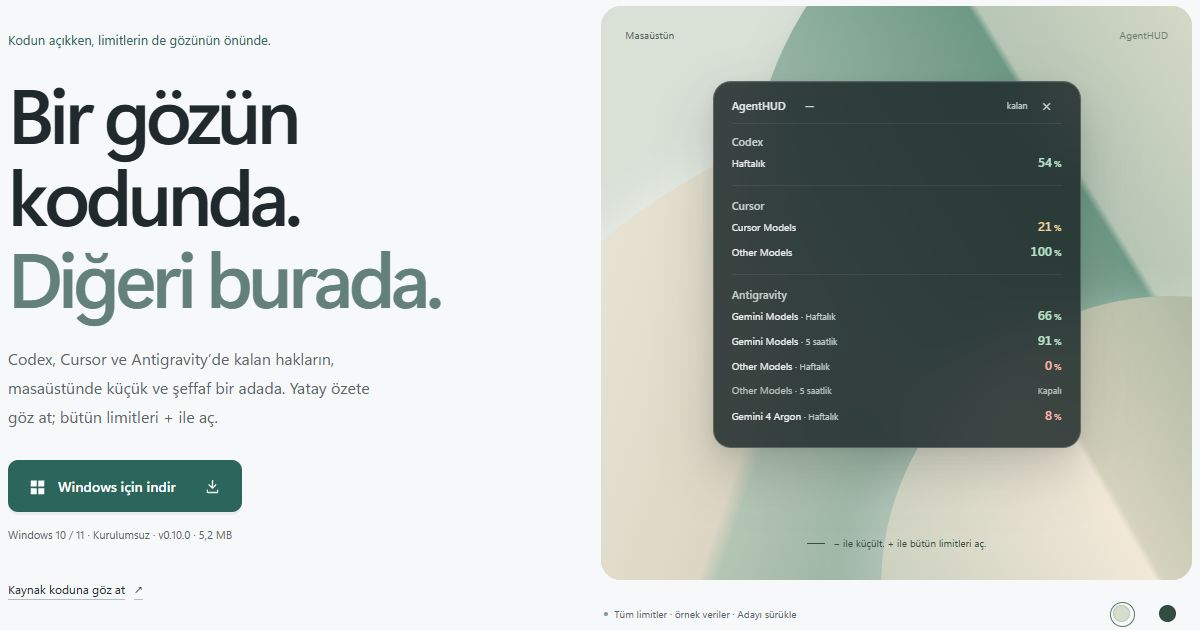
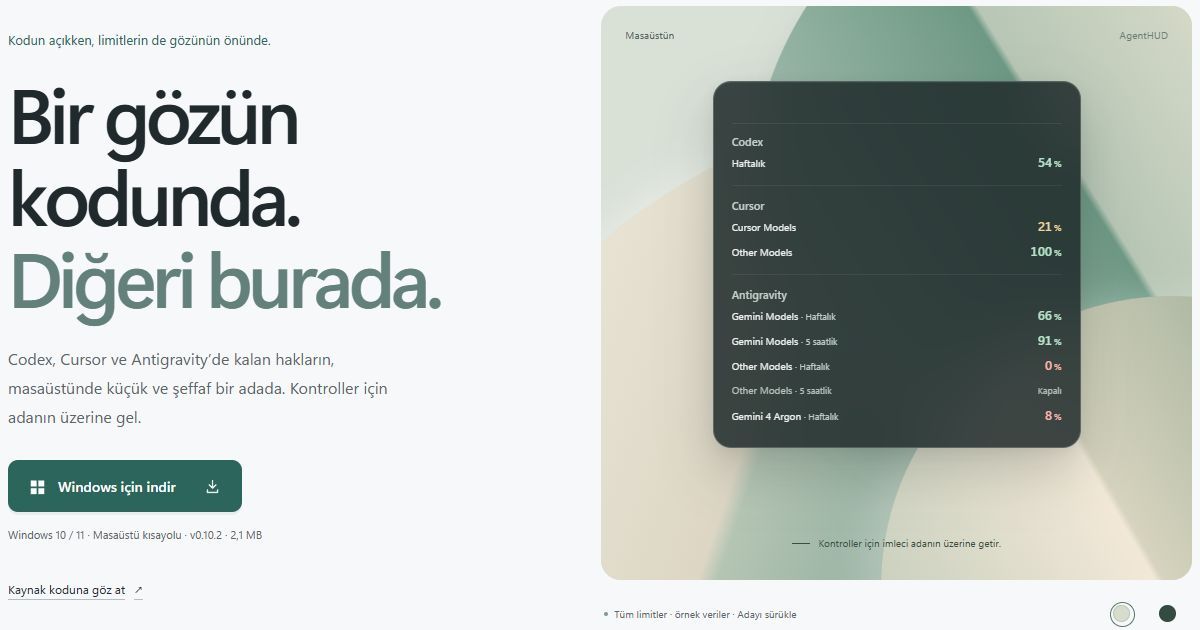
feat: reveal island controls on hover

diff --git a/site/index.html b/site/index.html
@@ -13,7 +13,7 @@
     <meta property="og:title" content="AgentHUD | Limitlerin, gözünün önünde." />
     <meta property="og:description" content="Codex, Cursor ve Antigravity için masaüstünde küçük bir kota adası. Windows için indir." />
     <meta property="og:url" content="https://agenthud.serhatkochan.com/" />
-    <meta property="og:image" content="https://agenthud.serhatkochan.com/assets/social.jpg?v=0.10.0" />
+    <meta property="og:image" content="https://agenthud.serhatkochan.com/assets/social.jpg?v=0.10.2" />
     <meta property="og:image:width" content="1200" />
     <meta property="og:image:height" content="630" />
     <meta property="og:image:alt" content="AgentHUD şeffaf kota adasının örnek verilerle hazırlanmış önizlemesi" />
@@ -38,9 +38,9 @@
         <div class="hero-copy">
           <p class="intro">Kodun açıkken, limitlerin de gözünün önünde.</p>
           <h1 id="hero-title">Bir gözün<br />kodunda.<br /><span>Diğeri burada.</span></h1>
-          <p class="hero-description">Codex, Cursor ve Antigravity’de kalan hakların, masaüstünde küçük ve şeffaf bir adada. Yatay özete göz at; bütün limitleri + ile aç.</p>
+          <p class="hero-description">Codex, Cursor ve Antigravity’de kalan hakların, masaüstünde küçük ve şeffaf bir adada. Kontroller için adanın üzerine gel.</p>
           <a class="button button-primary" href="https://github.com/serhatkochan/agenthud/releases/latest/download/AgentHUD-Setup.exe"><svg class="windows-icon" aria-hidden="true" viewBox="0 0 20 20"><path d="M2 3h7v7H2zm9 0h7v7h-7zM2 12h7v7H2zm9 0h7v7h-7z" /></svg>Windows için indir<svg class="download-icon" aria-hidden="true" viewBox="0 0 20 20"><path d="M10 3v9m-4-4 4 4 4-4M4 14v3h12v-3" /></svg></a>
-          <p class="download-note">Windows 10 / 11 · Masaüstü kısayolu · v0.10.1 · 2,1 MB</p>
+          <p class="download-note">Windows 10 / 11 · Masaüstü kısayolu · v0.10.2 · 2,1 MB</p>
           <a class="text-link" href="https://github.com/serhatkochan/agenthud">Kaynak koduna göz at <span aria-hidden="true">↗</span></a>
         </div>
 
@@ -52,9 +52,8 @@
             <div class="wallpaper-fold fold-three" aria-hidden="true"></div>
             <div class="island" id="island" data-view="expanded" role="group" aria-label="AgentHUD, örnek kota görünümü">
               <div class="island-top">
-                <button class="drag-handle" id="drag-handle" type="button" aria-label="AgentHUD önizlemesini taşı. Sürükle veya ok tuşlarını kullan.">AgentHUD</button>
+                <button class="drag-handle" id="drag-handle" type="button" aria-label="Önizlemeyi taşı. Sürükle veya ok tuşlarını kullan."></button>
                 <button class="island-control" id="view-toggle" type="button" aria-label="Yatay özete küçült" aria-expanded="true" aria-controls="quota-details quota-summary">−</button>
-                <span class="island-column">kalan</span>
                 <button class="island-control island-close" id="preview-close" type="button" aria-label="Önizlemeyi kapat">×</button>
               </div>
               <div id="quota-details">
@@ -79,7 +78,7 @@
                 <div class="summary-item"><dt>Other Models</dt><dd class="danger">0<span>%</span><small>5 saatlik</small></dd></div>
               </dl>
             </div>
-            <div class="desktop-hint"><span class="hint-line" aria-hidden="true"></span><span id="preview-hint">− ile küçült. + ile bütün limitleri aç.</span><button id="preview-reopen" type="button" hidden>Önizlemeyi aç</button></div>
+            <div class="desktop-hint"><span class="hint-line" aria-hidden="true"></span><span id="preview-hint">Kontroller için imleci adanın üzerine getir.</span><button id="preview-reopen" type="button" hidden>Önizlemeyi aç</button></div>
           </div>
           <figcaption id="preview-caption">
             <div class="preview-caption-copy"><span class="preview-dot" aria-hidden="true"></span><span><span id="preview-status" aria-live="polite">Tüm limitler · örnek veriler</span><span class="drag-tip"> · Adayı sürükle</span></span></div>
@@ -118,7 +117,7 @@
         <div class="section-copy"><p class="section-label">İndirmeden önce.</p><h2 id="questions-title">Birkaç küçük detay.</h2></div>
         <div class="question-list">
           <details><summary>Küçük görünümde hangi limit gösterilir?<span class="expand-mark" aria-hidden="true"></span></summary><div class="answer"><p>Codex’te varsa 5 saatlik, yoksa haftalık limit seçilir. Cursor’da Cursor Models görünür. Antigravity’de Gemini, Argon ve Other Models için varsa 5 saatlik, yoksa haftalık pencere kullanılır.</p><p>Bir grubun haftalık hakkı tükenmişse, kısa pencerede hak görünse bile yatay özette o grup %0 olur. Eksik bir ölçüm %0’a çevrilmez; devre dışı pencere “kapalı” gösterilir.</p></div></details>
-          <details><summary>Gerçekte ne kadar bellek kullanıyor?<span class="expand-mark" aria-hidden="true"></span></summary><div class="answer"><p>23 Ekim 2026’da bu Windows cihazında alınan son ölçümde çalışma kümesi <strong>27,4 MB</strong>, özel bellek yaklaşık <strong>5 MB</strong>. Kurulum EXE’si 2,1 MB, uygulamanın kendi EXE’si 5,2 MB. Kullanım, Windows’a ve çalışma durumuna göre değişir.</p><p>Arayüz Rust ve Windows API ile çizilir. Electron, WebView veya Node süreci çalıştırılmaz.</p></div></details>
+          <details><summary>Gerçekte ne kadar bellek kullanıyor?<span class="expand-mark" aria-hidden="true"></span></summary><div class="answer"><p>29 Ekim 2026’da bu Windows cihazında alınan ölçümlerde çalışma kümesi yaklaşık <strong>19–21 MB</strong>, özel bellek <strong>4–5 MB</strong>. Kurulum EXE’si 2,1 MB, uygulamanın kendi EXE’si 5,2 MB. Kullanım, Windows’a ve çalışma durumuna göre değişir.</p><p>Arayüz Rust ve Windows API ile çizilir. Electron, WebView veya Node süreci çalıştırılmaz.</p></div></details>
           <details><summary>API anahtarı girmem gerekiyor mu?<span class="expand-mark" aria-hidden="true"></span></summary><div class="answer"><p>Hayır. AgentHUD mevcut uygulama oturumlarını okur. Codex plan limitleri için Codex’e ChatGPT hesabınla giriş yapmış olmalısın; yalnızca API anahtarıyla giriş yeterli değildir.</p></div></details>
           <details><summary>Bir aracın limiti görünmüyorsa?<span class="expand-mark" aria-hidden="true"></span></summary><div class="answer"><p>İlgili uygulamada oturumunu kontrol et. Antigravity’nin açık olması gerekir. Her hesap aynı limitleri sunmaz; sağlayıcının döndürmediği bir pencere için yüzde üretilmez. AgentHUD dakikada bir yeniden sorgular.</p></div></details>
           <details><summary>Claude hesabımı da görebilir miyim?<span class="expand-mark" aria-hidden="true"></span></summary><div class="answer"><p>Bu sürümde ayrı bir Claude hesabı bağlantısı bulunmuyor. Antigravity’nin Other Models satırı, Antigravity içindeki Claude/GPT kullanım havuzunu gösterir. Claude hesabındaki kullanım hakkı ayrı bir limittir.</p></div></details>
@@ -126,7 +125,7 @@
         </div>
       </section>
 
-      <section class="closing shell" aria-label="Windows için indir"><div><p class="section-label">Masaüstüne küçük bir ek.</p><h2>Bir bakışta,<br /><span>ne kadar kaldığını bil.</span></h2></div><div class="closing-action"><a class="button button-primary" href="https://github.com/serhatkochan/agenthud/releases/latest/download/AgentHUD-Setup.exe"><svg class="windows-icon" aria-hidden="true" viewBox="0 0 20 20"><path d="M2 3h7v7H2zm9 0h7v7h-7zM2 12h7v7H2zm9 0h7v7h-7z" /></svg>Windows için indir</a><p class="download-note">v0.10.1 · Windows 10 / 11 · Kurulum EXE’si · 2,1 MB</p></div></section>
+      <section class="closing shell" aria-label="Windows için indir"><div><p class="section-label">Masaüstüne küçük bir ek.</p><h2>Bir bakışta,<br /><span>ne kadar kaldığını bil.</span></h2></div><div class="closing-action"><a class="button button-primary" href="https://github.com/serhatkochan/agenthud/releases/latest/download/AgentHUD-Setup.exe"><svg class="windows-icon" aria-hidden="true" viewBox="0 0 20 20"><path d="M2 3h7v7H2zm9 0h7v7h-7zM2 12h7v7H2zm9 0h7v7h-7z" /></svg>Windows için indir</a><p class="download-note">v0.10.2 · Windows 10 / 11 · Kurulum EXE’si · 2,1 MB</p></div></section>
     </main>
 
     <footer class="footer shell"><a class="brand" href="#">AgentHUD</a><p><a href="https://serhatkochan.com">Serhat Kochan</a> tarafından geliştirildi.</p><div><a href="https://github.com/serhatkochan/agenthud#readme">Dokümantasyon</a><a href="https://github.com/serhatkochan/agenthud/releases">Sürümler <span aria-hidden="true">↗</span></a></div></footer>

diff --git a/site/styles.css b/site/styles.css
@@ -63,14 +63,16 @@ h1 span { color: #63817a; }
 .desktop[data-wallpaper="dark"] .fold-three { background: linear-gradient(105deg, #526752, #a1a086 48%, #737c65 49%, #2d4840); }
 .island { position: absolute; z-index: 2; top: 85px; left: 50%; width: min(368px, calc(100% - 44px)); transform: translateX(-50%); padding: 8px 18px 16px; border: 1px solid #ffffff30; border-radius: 18px; background: #1d2929d9; backdrop-filter: blur(26px); -webkit-backdrop-filter: blur(26px); color: #ecf0ef; box-shadow: 0 24px 52px #24352d38, 0 4px 12px #24352d15, inset 0 1px 0 #ffffff0a; }
 .island-top { display: flex; align-items: center; gap: 4px; border-bottom: 1px solid #ffffff13; margin: -3px 0 3px; }
-.drag-handle { display: inline-flex; align-items: center; flex: 0 0 auto; min-height: 36px; padding: 0 5px 0 0; border: none; background: none; color: #e0e8e4; text-align: left; font-size: 11px; font-weight: 600; cursor: grab; touch-action: none; user-select: none; }
+.drag-handle { display: inline-flex; align-items: center; flex: 0 0 12px; min-height: 36px; padding: 0; border: none; background: none; cursor: grab; touch-action: none; user-select: none; }
 .drag-handle:active { cursor: grabbing; }
 .drag-handle:focus-visible { outline-color: #a9d5be; outline-offset: 1px; border-radius: 3px; }
-.island-control { flex: 0 0 30px; width: 30px; height: 36px; border: 0; padding: 0; border-radius: 5px; background: none; color: #c5d1cb; font-size: 18px; line-height: 1; }
+.island-control { flex: 0 0 30px; width: 30px; height: 36px; border: 0; padding: 0; border-radius: 5px; background: none; color: #c5d1cb; font-size: 18px; line-height: 1; opacity: 0; pointer-events: none; }
+.island:hover .island-control, .island:has(:focus-visible) .island-control { opacity: 1; pointer-events: auto; }
+@media (hover: none) { .island-control { opacity: 1; pointer-events: auto; } }
 .island-control:hover { background: #ffffff14; color: #fff; }
 .island-control:focus-visible { outline-color: #a9d5be; outline-offset: 1px; }
 .island-column { margin-left: auto; font-size: 9px; color: #c0cdc7; }
-.island-close { font-size: 17px; }
+.island-close { font-size: 17px; margin-left: auto; }
 .quota-group { margin: 0; }
 .quota-group + .quota-group { border-top: 1px solid #ffffff10; margin-top: 7px; padding-top: 2px; }
 .quota-group h3 { font-size: 11px; font-weight: 600; margin: 10px 0 4px; color: #c3d0ca; }
@@ -93,7 +95,7 @@ h1 span { color: #63817a; }
 .summary-item small { margin-left: 4px; color: #c0cdc7; font-size: 7px; font-weight: 400; }
 .summary-item dd.warning { color: #f4d29b; }
 .summary-item dd.danger { color: #ffb4a9; }
-.island[data-view="compact"] { display: flex; align-items: center; gap: 3px; width: min(692px, calc(100% - 24px)); padding: 7px 9px; border-radius: 15px; }
+.island[data-view="compact"] { display: flex; align-items: center; gap: 3px; width: min(590px, calc(100% - 24px)); padding: 7px 9px; border-radius: 15px; }
 .island[data-view="compact"] .island-top { display: contents; }
 .island[data-view="compact"] .drag-handle { font-size: 10px; }
 .island[data-view="compact"] .island-control { flex-basis: 24px; width: 24px; }

diff --git a/site/site.js b/site/site.js
@@ -38,7 +38,7 @@ function moveIsland(x, y) {
 function updateHint() {
   previewHint.textContent = island.dataset.view === 'compact' && summary.scrollWidth > summary.clientWidth
     ? 'Özeti yana kaydır; + ile bütün limitleri aç.'
-    : '− ile küçült. + ile bütün limitleri aç.';
+    : 'Kontroller için imleci adanın üzerine getir.';
 }
 
 function setExpanded(expanded) {

diff --git a/src-tauri/src/bar.rs b/src-tauri/src/bar.rs
@@ -10,7 +10,7 @@ use serde_json::{json, Value};
 use std::{
     ffi::c_void,
     sync::{
-        atomic::{AtomicIsize, Ordering},
+        atomic::{AtomicBool, AtomicIsize, Ordering},
         Mutex, OnceLock,
     },
     time::Duration,
@@ -29,11 +29,12 @@ use windows_sys::Win32::{
         },
         WindowsAndMessaging::{
             CreateWindowExW, DefWindowProcW, DestroyWindow, DispatchMessageW, FindWindowW,
-            GetClientRect, GetMessageW, GetWindowRect, LoadCursorW, LoadIconW, PostMessageW,
-            PostQuitMessage, RegisterClassW, SetForegroundWindow, SetWindowPos, ShowWindow,
-            SystemParametersInfoW, TranslateMessage, CS_HREDRAW, CS_VREDRAW, HTCAPTION, HTCLIENT,
-            HWND_TOPMOST, IDC_ARROW, SPI_GETWORKAREA, SWP_NOACTIVATE, SW_SHOW, WM_DESTROY,
-            WM_DPICHANGED, WM_ERASEBKGND, WM_KEYDOWN, WM_LBUTTONUP, WM_NCHITTEST, WM_PAINT,
+            GetClientRect, GetCursorPos, GetMessageW, GetWindowRect, KillTimer, LoadCursorW,
+            LoadIconW, PostMessageW, PostQuitMessage, RegisterClassW, SetForegroundWindow,
+            SetTimer, SetWindowPos, ShowWindow, SystemParametersInfoW, TranslateMessage,
+            CS_HREDRAW, CS_VREDRAW, HTCAPTION, HTCLIENT, HWND_TOPMOST, IDC_ARROW, SPI_GETWORKAREA,
+            SWP_NOACTIVATE, SW_SHOW, WM_DESTROY, WM_DPICHANGED, WM_ERASEBKGND, WM_KEYDOWN,
+            WM_LBUTTONUP, WM_MOUSEMOVE, WM_NCHITTEST, WM_NCMOUSEMOVE, WM_PAINT, WM_TIMER,
             WNDCLASSW, WS_EX_LAYERED, WS_EX_TOOLWINDOW, WS_EX_TOPMOST, WS_POPUP, WS_VISIBLE,
         },
     },
@@ -44,11 +45,11 @@ const WINDOW_EX_STYLE: u32 = WS_EX_LAYERED | WS_EX_TOPMOST | WS_EX_TOOLWINDOW;
 const NAMES: [&str; 3] = ["Codex", "Cursor", "Antigravity"];
 const IDS: [&str; 3] = ["codex", "cursor", "antigravity"];
 const PANEL_WIDTH: i32 = 368;
-const HEADER_HEIGHT: i32 = 42;
+const HEADER_HEIGHT: i32 = 32;
 const ROW_HEIGHT: i32 = 23;
 const GROUP_HEIGHT: i32 = 28;
 const COMPACT_HEIGHT: i32 = 50;
-const COMPACT_BRAND: i32 = 138;
+const COMPACT_BRAND: i32 = 36;
 const COMPACT_CELL: i32 = 104;
 const CLOSE_SPACE: i32 = 34;
 
@@ -100,6 +101,8 @@ impl Frame {
 
 static STATE: OnceLock<Mutex<Bar>> = OnceLock::new();
 static WINDOW: AtomicIsize = AtomicIsize::new(0);
+static HOVERED: AtomicBool = AtomicBool::new(false);
+const HOVER_TIMER: usize = 42;
 
 pub fn run() {
     let _ = unsafe { SetProcessDpiAwarenessContext(DPI_AWARENESS_CONTEXT_PER_MONITOR_AWARE_V2) };
@@ -385,6 +388,29 @@ unsafe extern "system" fn wndproc(
             0
         }
         WM_ERASEBKGND => 1,
+        WM_MOUSEMOVE | WM_NCMOUSEMOVE => {
+            if !HOVERED.swap(true, Ordering::Relaxed) {
+                SetTimer(hwnd, HOVER_TIMER, 120, None);
+                InvalidateRect(hwnd, std::ptr::null(), 0);
+            }
+            0
+        }
+        WM_TIMER if wparam == HOVER_TIMER => {
+            let mut point: POINT = std::mem::zeroed();
+            let mut rect: RECT = std::mem::zeroed();
+            if GetCursorPos(&mut point) == 0
+                || GetWindowRect(hwnd, &mut rect) == 0
+                || point.x < rect.left
+                || point.x >= rect.right
+                || point.y < rect.top
+                || point.y >= rect.bottom
+            {
+                KillTimer(hwnd, HOVER_TIMER);
+                HOVERED.store(false, Ordering::Relaxed);
+                InvalidateRect(hwnd, std::ptr::null(), 0);
+            }
+            0
+        }
         WM_NCHITTEST => hit(hwnd, lparam),
         WM_LBUTTONUP => {
             if in_close(hwnd, lparam) {
@@ -419,6 +445,8 @@ unsafe extern "system" fn wndproc(
             0
         }
         WM_DESTROY => {
+            KillTimer(hwnd, HOVER_TIMER);
+            HOVERED.store(false, Ordering::Relaxed);
             WINDOW.store(0, Ordering::Relaxed);
             PostQuitMessage(0);
             0
@@ -494,9 +522,9 @@ fn toggle_rect(hwnd: HWND) -> BoxRect {
     };
     let top = (header - dip(32, dpi)) / 2;
     BoxRect {
-        left: dip(93, dpi),
+        left: dip(4, dpi),
         top,
-        right: dip(128, dpi),
+        right: dip(35, dpi),
         bottom: top + dip(32, dpi),
     }
 }
@@ -526,8 +554,8 @@ mod tests {
                 class.as_ptr(),
                 class.as_ptr(),
                 WS_POPUP,
-                0,
-                0,
+                -20000,
+                -20000,
                 692,
                 50,
                 std::ptr::null_mut(),
@@ -537,6 +565,11 @@ mod tests {
             );
             assert!(!hwnd.is_null());
             let style = GetWindowLongW(hwnd, GWL_EXSTYLE) as u32;
+            HOVERED.store(false, Ordering::Relaxed);
+            wndproc(hwnd, WM_MOUSEMOVE, 0, 0);
+            assert!(HOVERED.load(Ordering::Relaxed));
+            wndproc(hwnd, WM_TIMER, HOVER_TIMER, 0);
+            assert!(!HOVERED.load(Ordering::Relaxed));
             let close = close_rect(hwnd);
             let x = (close.left + close.right) / 2;
             let y = (close.top + close.bottom) / 2;

diff --git a/src-tauri/src/bar/paint.rs b/src-tauri/src/bar/paint.rs
@@ -1,9 +1,10 @@
 use super::{
     close_rect, current_frame, dip, percent_text, toggle_rect, wide, Frame, Line, CLOSE_SPACE,
-    COMPACT_BRAND, COMPACT_HEIGHT, GROUP_HEIGHT, HEADER_HEIGHT, ROW_HEIGHT,
+    COMPACT_BRAND, COMPACT_HEIGHT, GROUP_HEIGHT, HEADER_HEIGHT, HOVERED, ROW_HEIGHT,
 };
 use crate::quota_view::CompactQuota;
 use std::ffi::c_void;
+use std::sync::atomic::Ordering;
 use windows_sys::Win32::{
     Foundation::{COLORREF, HWND, POINT, RECT, SIZE},
     Graphics::Gdi::{
@@ -186,43 +187,33 @@ unsafe fn paint_header(
         dpi,
     );
     SelectObject(dc, header_font as _);
-    SetTextColor(dc, rgb(0xE0, 0xEA, 0xE4));
-    paint_text(
-        dc,
-        "AgentHUD",
-        RECT {
-            left: dip(15, dpi),
-            top: 0,
-            right: dip(92, dpi),
-            bottom: height,
-        },
-        DT_LEFT | DT_VCENTER | DT_SINGLELINE,
-    );
-    let toggle = toggle_rect(hwnd);
-    SetTextColor(dc, rgb(0xBA, 0xCC, 0xC1));
-    paint_text(
-        dc,
-        if frame.collapsed { "+" } else { "−" },
-        RECT {
-            left: toggle.left,
-            top: toggle.top,
-            right: toggle.right,
-            bottom: toggle.bottom,
-        },
-        DT_CENTER | DT_VCENTER | DT_SINGLELINE,
-    );
-    let close = close_rect(hwnd);
-    paint_text(
-        dc,
-        "×",
-        RECT {
-            left: close.left,
-            top: close.top,
-            right: close.right,
-            bottom: close.bottom,
-        },
-        DT_CENTER | DT_VCENTER | DT_SINGLELINE,
-    );
+    if HOVERED.load(Ordering::Relaxed) {
+        let toggle = toggle_rect(hwnd);
+        SetTextColor(dc, rgb(0xBA, 0xCC, 0xC1));
+        paint_text(
+            dc,
+            if frame.collapsed { "+" } else { "−" },
+            RECT {
+                left: toggle.left,
+                top: toggle.top,
+                right: toggle.right,
+                bottom: toggle.bottom,
+            },
+            DT_CENTER | DT_VCENTER | DT_SINGLELINE,
+        );
+        let close = close_rect(hwnd);
+        paint_text(
+            dc,
+            "×",
+            RECT {
+                left: close.left,
+                top: close.top,
+                right: close.right,
+                bottom: close.bottom,
+            },
+            DT_CENTER | DT_VCENTER | DT_SINGLELINE,
+        );
+    }
     if !frame.collapsed {
         rule(
             dc,

diff --git a/README.md b/README.md
@@ -8,9 +8,9 @@
   <a href="https://github.com/serhatkochan/agenthud/releases">Sürümler</a>
 </p>
 
-![AgentHUD başlığı, küçültme düğmesi ve ayrı kota satırlarıyla güncel web önizlemesi](site/assets/preview.jpg)
+![Ayrı kota satırlarıyla güncel ada önizlemesi](site/assets/preview.jpg)
 
-AgentHUD, AI araçlarında **ne kadar hakkın kaldığını** aynı yerde gösteren kompakt bir Windows uygulamasıdır. Şeffaf ada diğer pencerelerin üzerinde durur. Yatay özetle açılır; başlıktaki **+** bütün limitleri gösterir, **−** yeniden küçültür. İstediğin yere sürükle; koduna devam et.
+AgentHUD, AI araçlarında **ne kadar hakkın kaldığını** aynı yerde gösteren kompakt bir Windows uygulamasıdır. Şeffaf ada diğer pencerelerin üzerinde durur. Yatay özetle açılır; üzerine gelince görünen **+** bütün limitleri gösterir, **−** yeniden küçültür. İstediğin yere sürükle; koduna devam et.
 
 Arayüz Rust ve Windows API ile çizilir. Çalışırken Electron, WebView veya Node süreci açılmaz.
 
@@ -22,7 +22,7 @@ Arayüz Rust ve Windows API ile çizilir. Çalışırken Electron, WebView veya 
 2. Cursor’da ve Codex uygulamasında veya CLI’da hesabına giriş yapmış ol. Codex plan limitleri için ChatGPT hesabıyla giriş gerekir; yalnızca API anahtarı yeterli değildir.
 3. Antigravity limitlerini de görmek için Antigravity’yi açık tut ve hesabına giriş yap.
 
-Ada ilk açılışta ekranın sağ üstünde yatay özet olarak görünür. Başlıktaki **+** bütün limitleri açar, **−** yeniden küçültür. Boş bir yerinden sürükleyerek taşıyabilir, **×** ile kapatabilirsin. Pencere odaktayken Space veya Enter görünümü değiştirir; Escape bütün limitleri açar. Haklar **60 saniyede bir** yenilenir. Ayrı bir AgentHUD hesabı veya elle API anahtarı girişi gerekmez.
+Ada ilk açılışta ekranın sağ üstünde yatay özet olarak görünür. İmleci üzerine getirince **+**, **−** ve **×** kontrolleri görünür. **+** bütün limitleri açar, **−** yeniden küçültür. Boş bir yerinden sürükleyerek taşıyabilir, **×** ile kapatabilirsin. Pencere odaktayken Space veya Enter görünümü değiştirir; Escape bütün limitleri açar. Haklar **60 saniyede bir** yenilenir. Ayrı bir AgentHUD hesabı veya elle API anahtarı girişi gerekmez.
 
 Uygulama görev çubuğunda yer kaplamaz. **× uygulamayı tamamen kapatır**; yeniden açmak için masaüstü kısayolunu kullan.
 
@@ -31,8 +31,6 @@ Kurulum yalnızca mevcut kullanıcıya, varsayılan olarak `%LOCALAPPDATA%\Progr
 Kurulumsuz kullanım için [AgentHUD.exe](https://github.com/serhatkochan/agenthud/releases/latest/download/AgentHUD.exe) de sürüm dosyalarında bulunur.
 
 ### Küçük görünümde hangi hak seçilir?
-
-![AgentHUD yatay özeti: Codex, Cursor Models, Gemini, Argon ve Other Models; örnek veriler](site/assets/compact.jpg)
 
 | Gösterge | Seçilen limit |
 | --- | --- |
@@ -62,12 +60,12 @@ Ayrı bir Claude hesabı bağlantısı bu sürümde bulunmuyor. Antigravity’ni
 
 | Ölçüm | Değer |
 | --- | --- |
-| v0.10.1 kurulum EXE’si | **2,1 MB** (2.093.282 bayt) |
-| Uygulama EXE’si | **5,2 MB** (5.227.008 bayt) |
-| Çalışma kümesi (RAM) | Son canlı ölçümde **27,4 MB** |
-| Özel bellek (private bytes) | Aynı ölçümde yaklaşık **5 MB** |
+| v0.10.2 kurulum EXE’si | Yaklaşık **2,1 MB** |
+| Uygulama EXE’si | Yaklaşık **5,2 MB** |
+| Çalışma kümesi (RAM) | Bu cihazdaki ölçümlerde yaklaşık **19–21 MB** |
+| Özel bellek (private bytes) | Aynı ölçümlerde yaklaşık **4–5 MB** |
 
-Bellek ölçümü 23 Ekim 2026’da çalışan Windows uygulamasından alındı. Çalışma kümesi, özel bellek ve dosya boyutu farklı ölçümlerdir. RAM tüketimi Windows’a, yenileme anına ve çalışma süresine göre değişir; bu değerler sabit bir üst sınır değildir.
+Bellek ölçümü 29 Ekim 2026’da çalışan Windows uygulamasından alındı. Çalışma kümesi, özel bellek ve dosya boyutu farklı ölçümlerdir. RAM tüketimi Windows’a, yenileme anına ve çalışma süresine göre değişir; bu değerler sabit bir üst sınır değildir.
 
 ## Oturum ve veri akışı
 

diff --git a/docs/LANDING_VERIFICATION.md b/docs/LANDING_VERIFICATION.md
@@ -35,7 +35,6 @@ Chrome, gerçek yerel sayfa:
 Önizleme değerleri açıkça örnek olarak etiketlidir. Görseller gerçek tarayıcıda çalışan bu web önizlemesinden kaydedildi; Windows uygulamasının ekran görüntüsü olarak sunulmaz.
 
 - `site/assets/preview.jpg`: README görseli.
-- `site/assets/compact.jpg`: beş ayrı grubun göründüğü yatay özet.
 - `site/assets/social.jpg`: 1200 × 630 bağlantı paylaşım görseli.
 
 Sayfa statik HTML / CSS ve küçük bir JavaScript dosyasıdır. Harici yazı tipi, analiz betiği veya yeni paket bağımlılığı eklenmedi.

diff --git a/CHANGELOG.md b/CHANGELOG.md
@@ -1,5 +1,10 @@
 # Değişiklikler
 
+## 0.10.2 · 29 Ekim 2026
+
+- Ada üzerindeki uygulama adı kaldırıldı ve yatay görünüm daraltıldı.
+- +, − ve × kontrolleri imleç adanın üzerindeyken gösterilir.
+
 ## 0.10.1 · 23 Ekim 2026
 
 - Windows kurulum EXE’si eklendi. Kurulum mevcut kullanıcıya yapılır; masaüstü ve Başlat menüsü kısayolları ile Windows uygulama kaldırma kaydı oluşturur.
